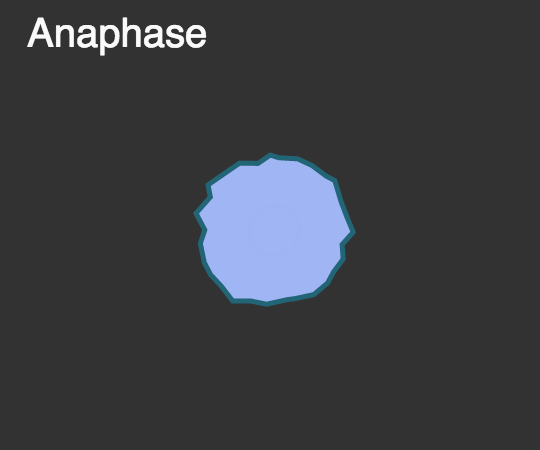
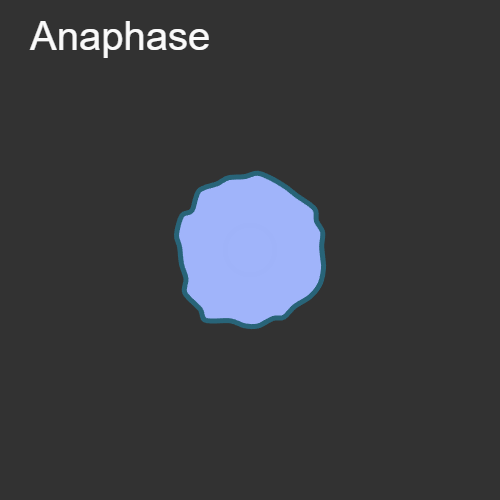
p5js/cc/mitosis - MINOR - update screenshots to use standard 500x500

Changed region(s): [[0.33, 0.3422, 0.66, 0.6844], [0.03, 0.0311, 0.42, 0.1244]]

diff --git a/p5js/coding-challenges/mitosis/mitosis.js b/p5js/coding-challenges/mitosis/mitosis.js
@@ -2,6 +2,8 @@ var cells;
 
 function setup(){
   createCanvas(windowWidth, windowHeight-45);
+  // createCanvas(500, 500); // for screenshots
+  
 
   cells = []
   cells.push(new Cell(width/2, height/2));
